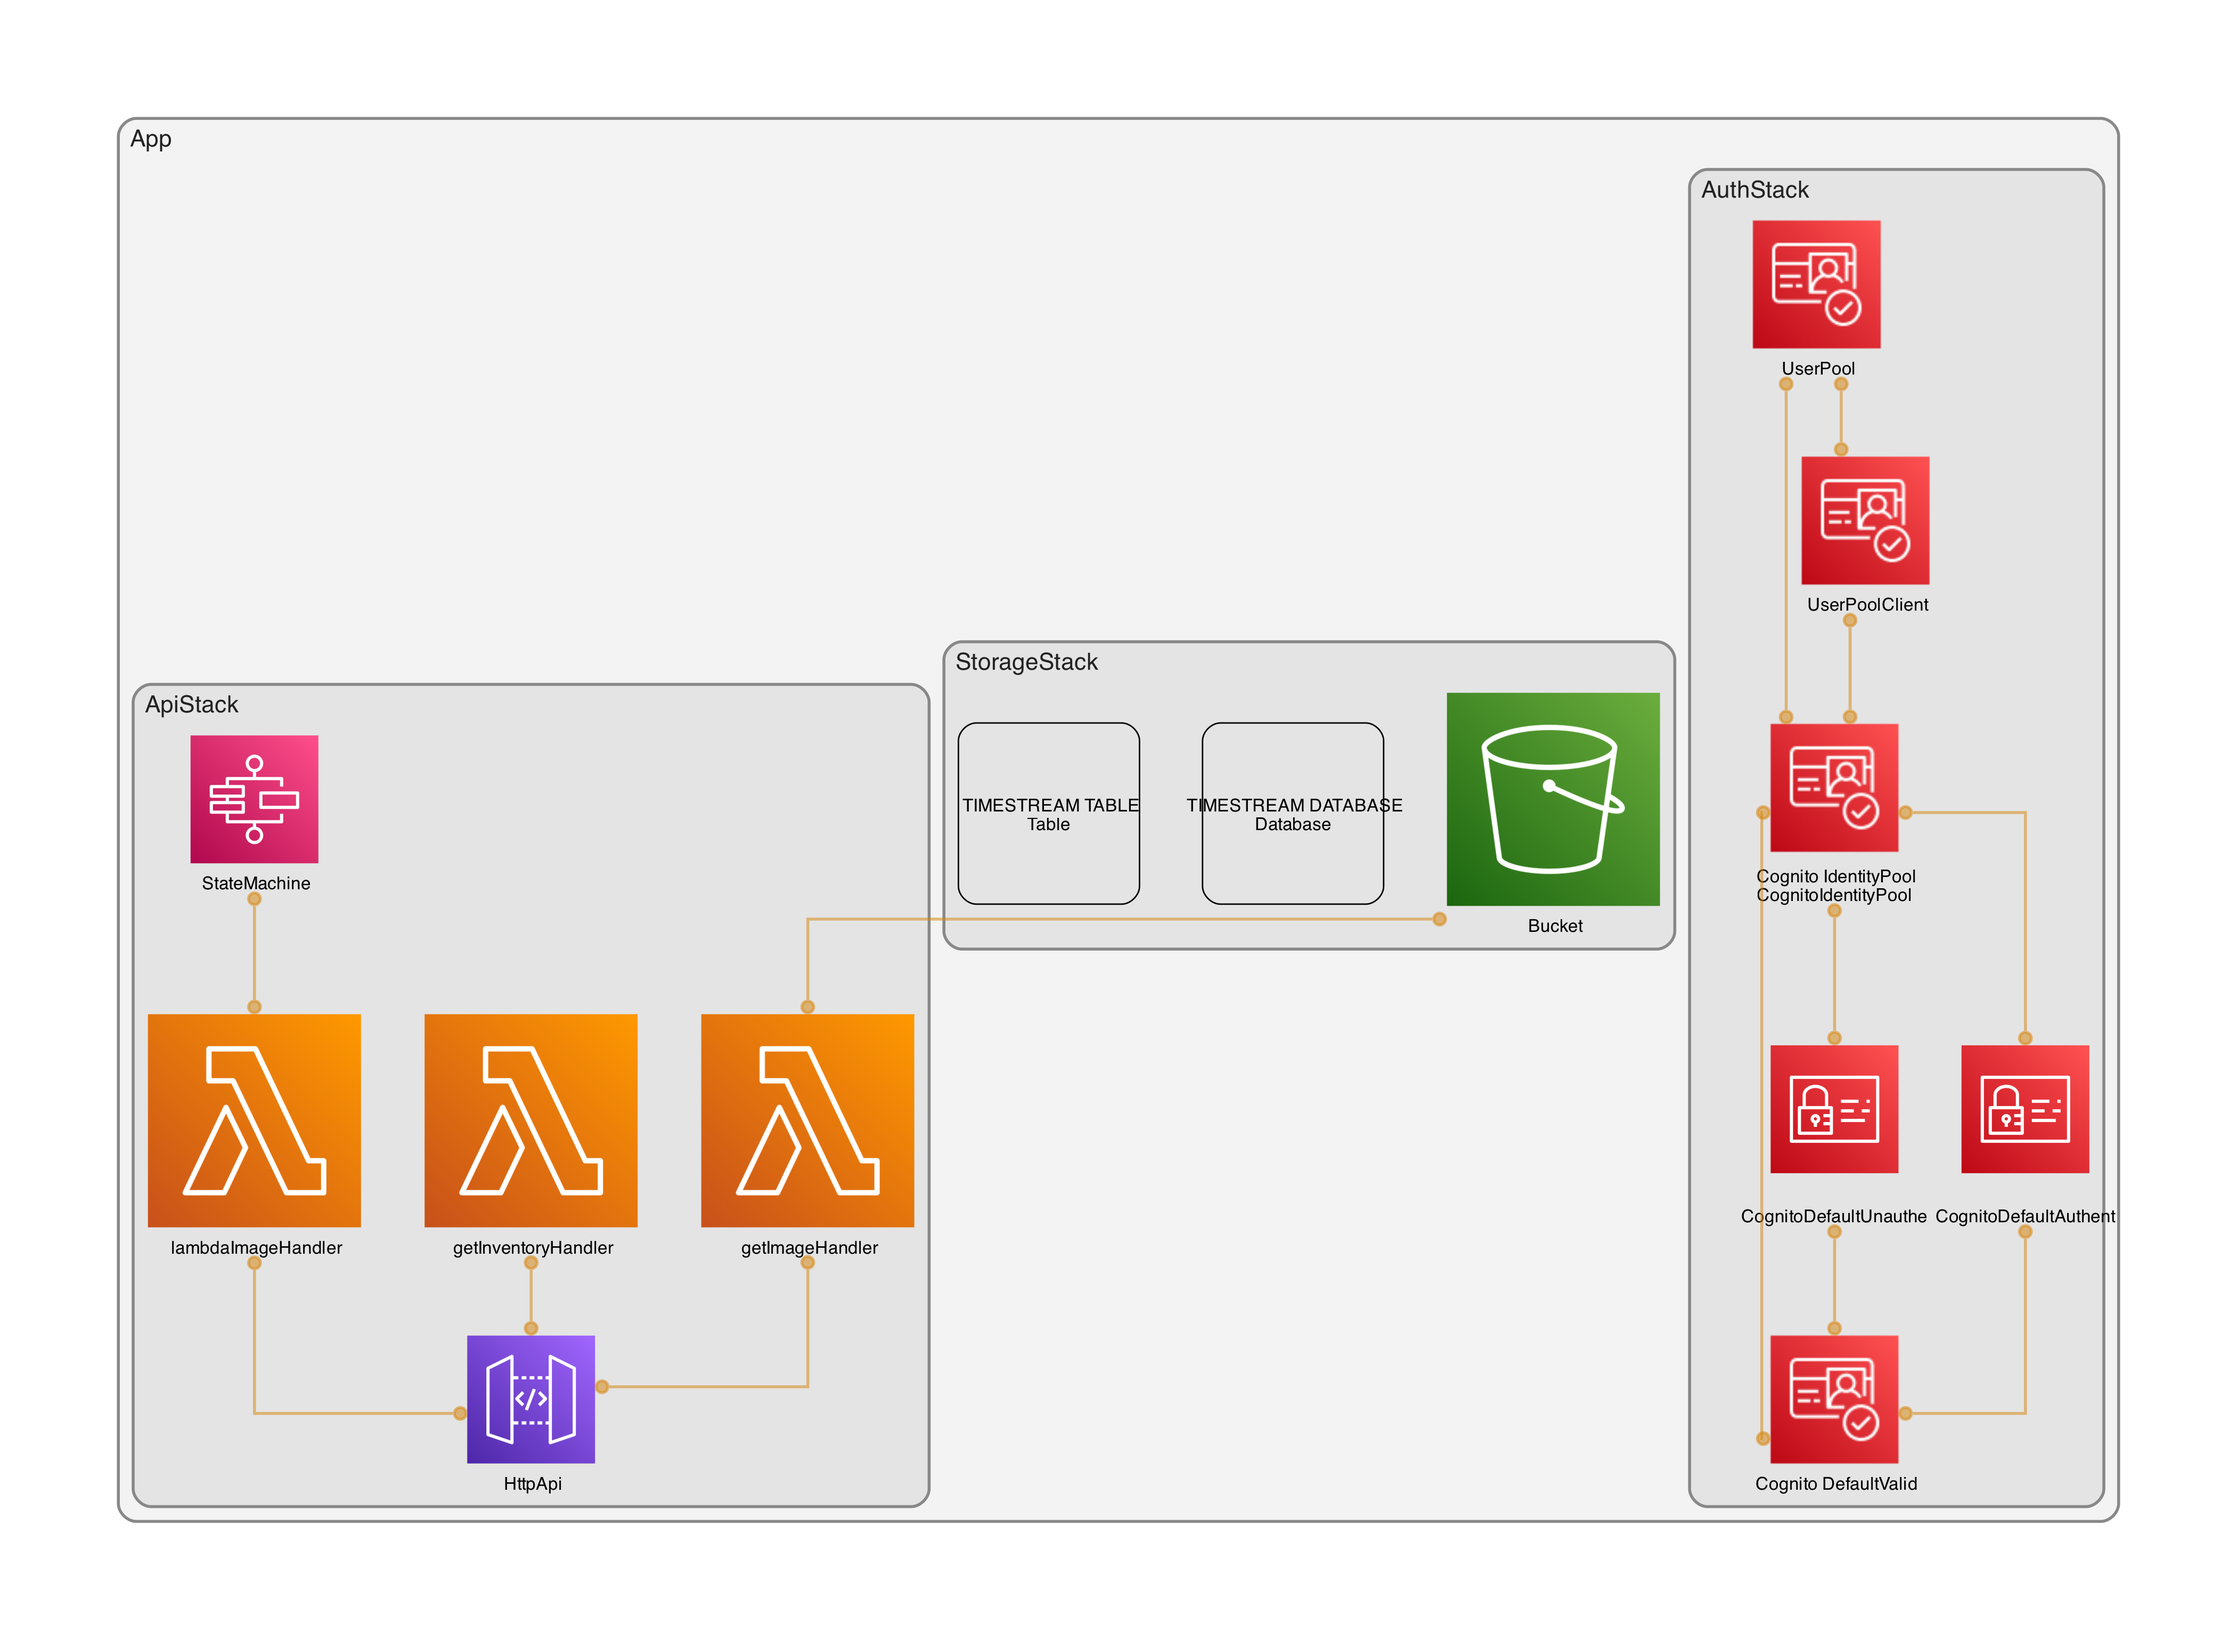
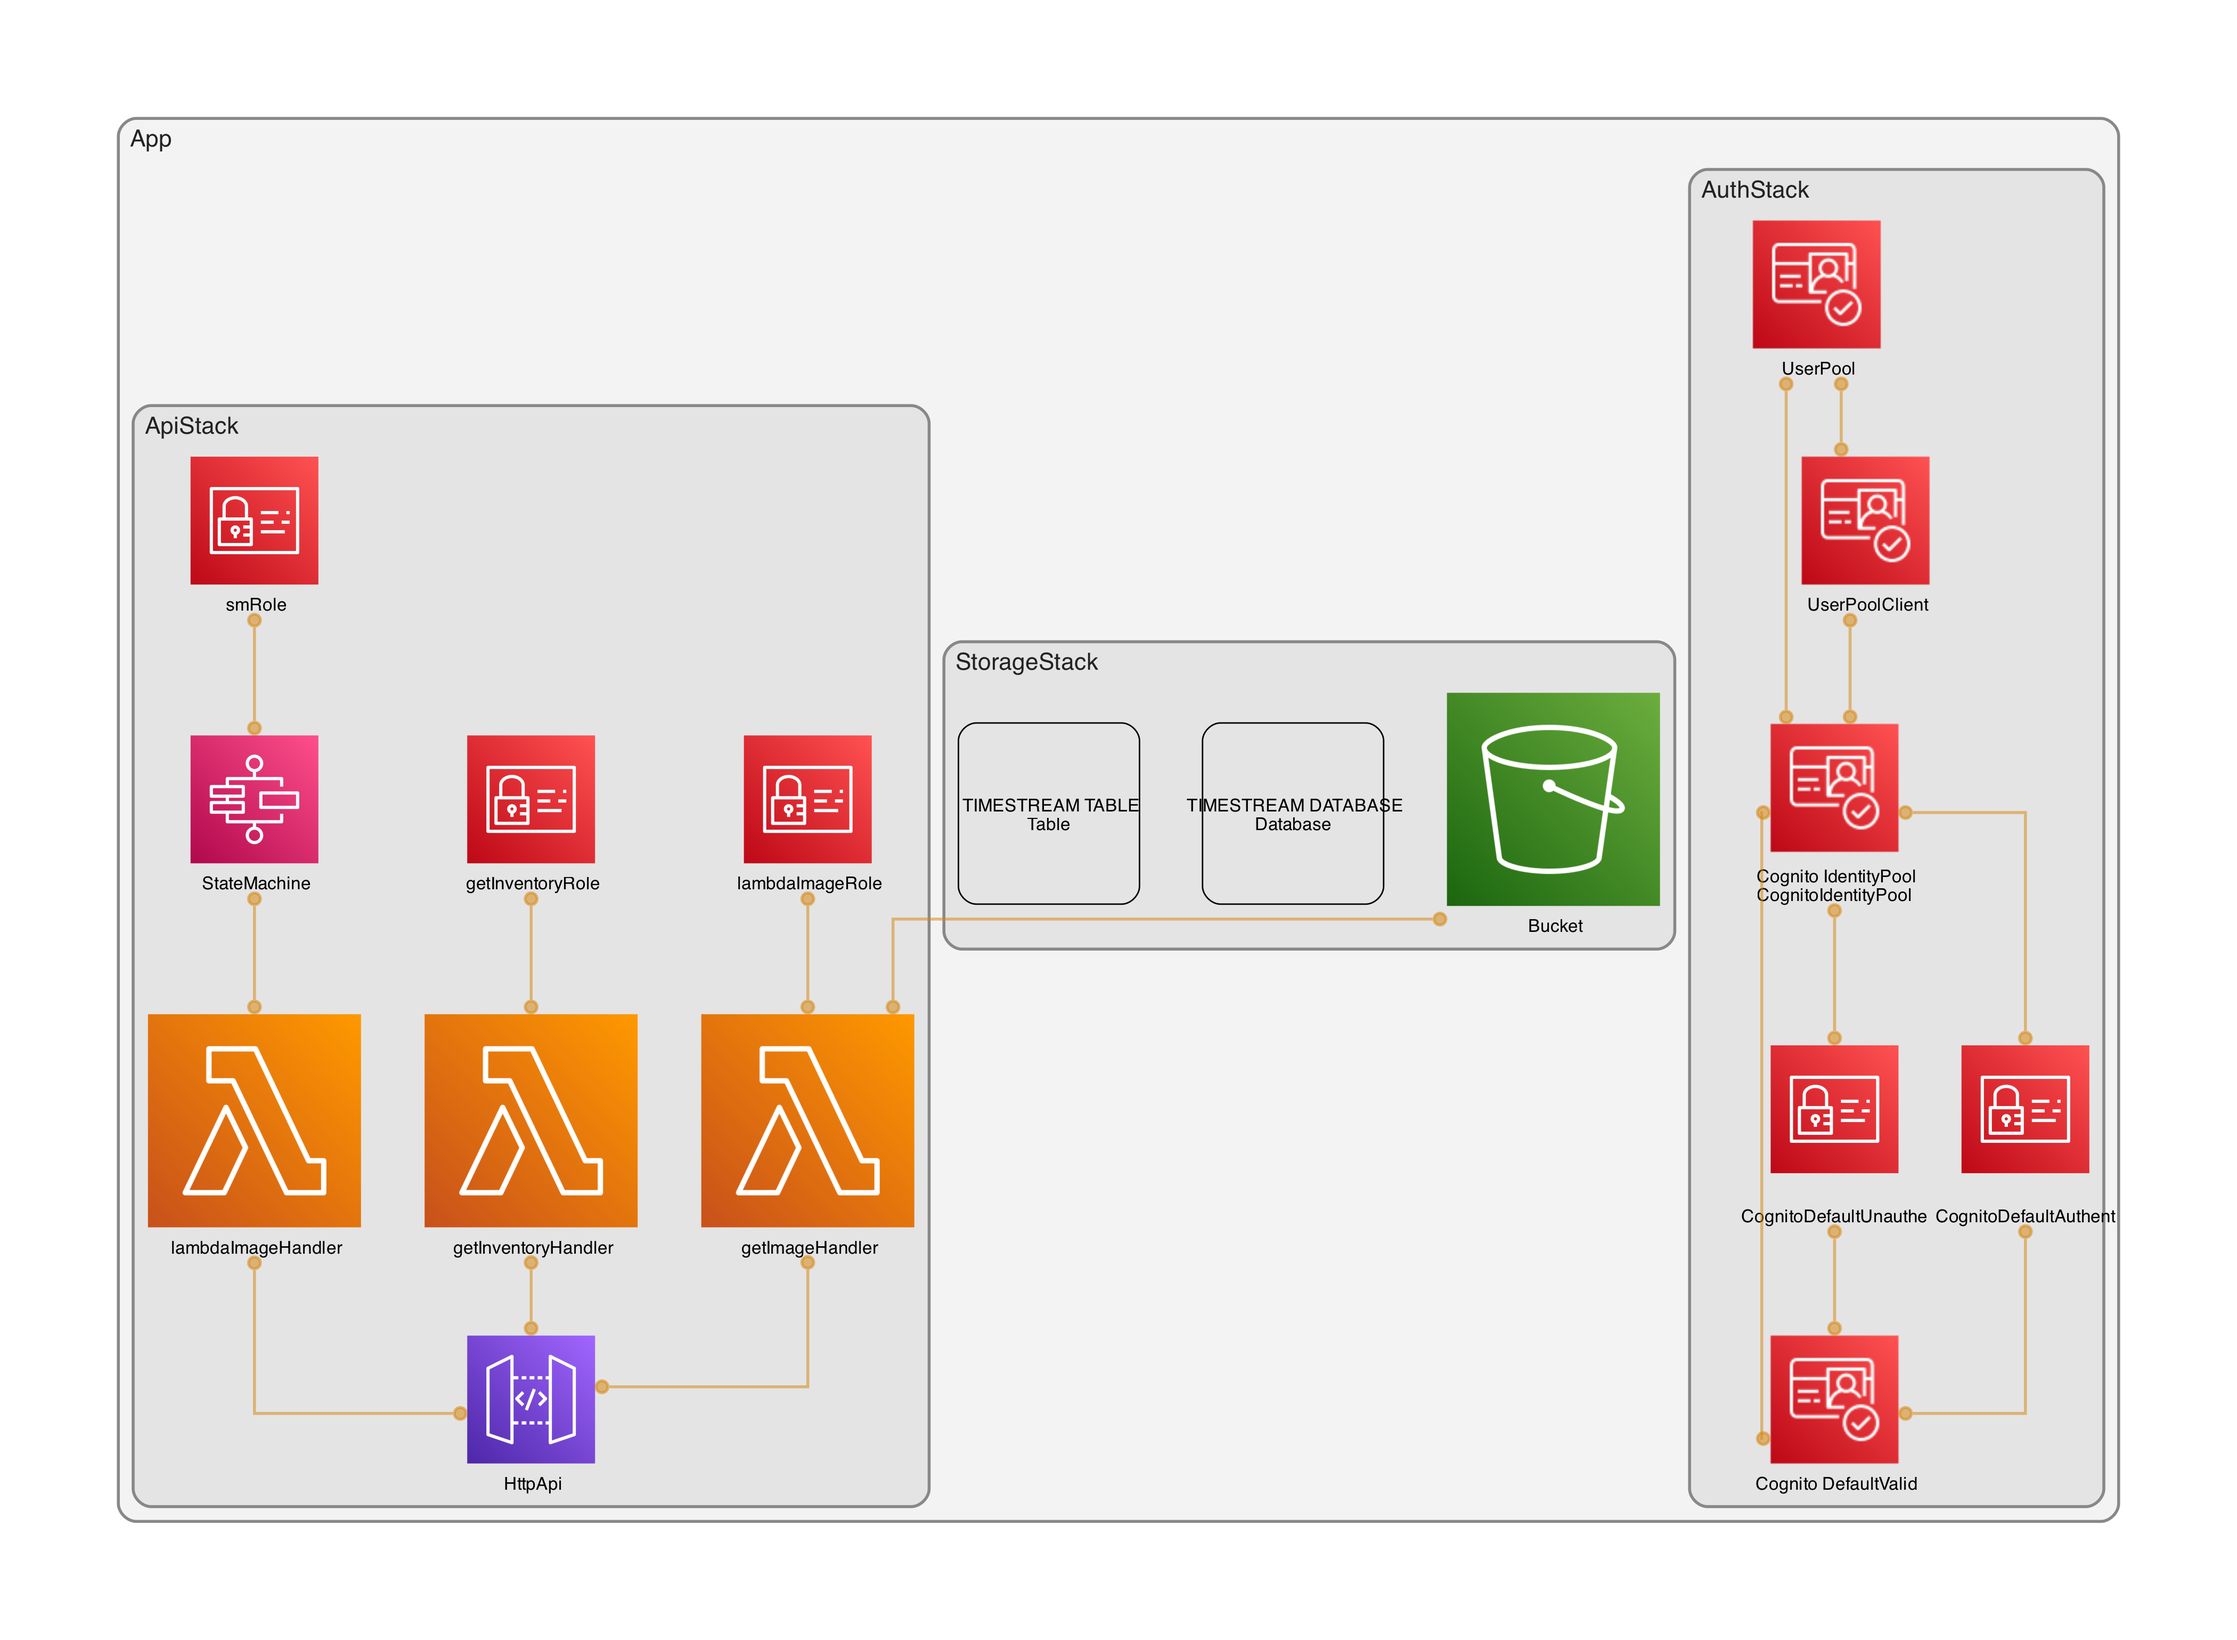
feat: added permissions

diff --git a/cdk/lib/api-stack.ts b/cdk/lib/api-stack.ts
@@ -3,18 +3,45 @@ import * as apigw from "aws-cdk-lib/aws-apigatewayv2";
 import * as lambda from "aws-cdk-lib/aws-lambda";
 import * as sfn from "aws-cdk-lib/aws-stepfunctions";
 import * as sfn_tasks from "aws-cdk-lib/aws-stepfunctions-tasks";
+import { HttpUserPoolAuthorizer } from "aws-cdk-lib/aws-apigatewayv2-authorizers";
 import { Construct } from "constructs";
 
 export class ApiStack extends cdk.Stack {
 	constructor(scope: Construct, id: string, props?: any) {
 		super(scope, id, props);
 
-		const { bucket, projectName, region, database, table } = props;
+		const {
+			bucket,
+			projectName,
+			environment,
+			accountId,
+			region,
+			database,
+			table,
+			userPool,
+		} = props;
 
 		// API Gateway
-		// TODO: AUthorization with Cognito
 		const httpApi = new apigw.HttpApi(this, "HttpApi", {
-			createDefaultStage: true, // Creates API URL
+			createDefaultStage: true,
+			apiName: `${environment}-${projectName}-api`,
+			corsPreflight: {
+				allowHeaders: [
+					"Content-Type",
+					"X-Amz-Date",
+					"Authorization",
+					"X-Api-Key",
+					"Access-Control-Allow-Credentials",
+					"Access-Control-Allow-Headers",
+				],
+				allowMethods: [
+					apigw.CorsHttpMethod.GET,
+					apigw.CorsHttpMethod.HEAD,
+					apigw.CorsHttpMethod.OPTIONS,
+					apigw.CorsHttpMethod.POST,
+				],
+				allowOrigins: ["*"],
+			},
 		});
 
 		// Puts image in the s3 bucket
@@ -23,8 +50,9 @@ export class ApiStack extends cdk.Stack {
 				Type: "Task",
 				Parameters: {
 					Body: {},
-					Bucket: "ExampleBucket",
-					Key: "MyData",
+					Bucket: `${environment}-${projectName}-${accountId}-${region}-bucket`,
+					// TODO: have input parameters for setting the key
+					Key: "Example",
 				},
 				Resource: "arn:aws:states:::aws-sdk:s3:putObject",
 			},
@@ -34,7 +62,15 @@ export class ApiStack extends cdk.Stack {
 			stateJson: {
 				Type: "Task",
 				Parameters: {
-					Image: {},
+					//
+					Image: {
+						S3Object: {
+							Bucket: "string",
+							Name: "string",
+							Version: "string",
+						},
+					},
+					// TODO: Get projectArn from created
 					ProjectVersionArn: "MyData",
 				},
 				Resource: "arn:aws:states:::aws-sdk:rekognition:detectCustomLabels",
@@ -45,9 +81,9 @@ export class ApiStack extends cdk.Stack {
 			stateJson: {
 				Type: "Task",
 				Parameters: {
-					DatabaseName: "MyData",
+					DatabaseName: `${environment}-${projectName}-db`,
 					Records: [{}],
-					TableName: "MyData",
+					TableName: `${environment}-${projectName}-table`,
 				},
 				Resource: "arn:aws:states:::aws-sdk:timestreamwrite:writeRecords",
 			},
@@ -57,9 +93,26 @@ export class ApiStack extends cdk.Stack {
 			.next(detectCustomLabels)
 			.next(writeRecords);
 
+		const smRole = new cdk.aws_iam.Role(this, "smRole", {
+			assumedBy: new cdk.aws_iam.ServicePrincipal("states.amazonaws.com"),
+			managedPolicies: [
+				cdk.aws_iam.ManagedPolicy.fromAwsManagedPolicyName(
+					"AmazonS3FullAccess"
+				),
+				cdk.aws_iam.ManagedPolicy.fromAwsManagedPolicyName(
+					"AmazonTimestreamFullAccess"
+				),
+				cdk.aws_iam.ManagedPolicy.fromAwsManagedPolicyName(
+					"AmazonRekognitionFullAccess"
+				),
+			],
+		});
+
+		// TODO: Walk through all of state machine
 		const sm = new sfn.StateMachine(this, "StateMachine", {
 			definitionBody: sfn.DefinitionBody.fromChainable(chain),
 			timeout: cdk.Duration.seconds(30),
+			role: smRole,
 		});
 
 		// Initializes Step Function with base64 image and runs through the process
@@ -87,6 +140,15 @@ export class ApiStack extends cdk.Stack {
 		sm.grantStartExecution(lambdaImageHandler);
 
 		// Get list of all information from given timeframe
+		const getInventoryRole = new cdk.aws_iam.Role(this, "getInventoryRole", {
+			assumedBy: new cdk.aws_iam.ServicePrincipal("states.amazonaws.com"),
+			managedPolicies: [
+				cdk.aws_iam.ManagedPolicy.fromAwsManagedPolicyName(
+					"AmazonTimestreamFullAccess"
+				),
+			],
+		});
+
 		const getInventoryHandler = new lambda.Function(
 			this,
 			"getInventoryHandler",
@@ -98,6 +160,7 @@ export class ApiStack extends cdk.Stack {
 					TIMESTREAM_TABLE: table.TableName,
 					TIMESTREAM_DATABASE: database.DatabaseName,
 				},
+				role: getInventoryRole,
 			}
 		);
 
@@ -114,6 +177,15 @@ export class ApiStack extends cdk.Stack {
 		});
 
 		// Get image of selected timeframe
+		const lambdaImageRole = new cdk.aws_iam.Role(this, "lambdaImageRole", {
+			assumedBy: new cdk.aws_iam.ServicePrincipal("states.amazonaws.com"),
+			managedPolicies: [
+				cdk.aws_iam.ManagedPolicy.fromAwsManagedPolicyName(
+					"AmazonS3FullAccess"
+				),
+			],
+		});
+
 		const getImageHandler = new lambda.Function(this, "getImageHandler", {
 			code: lambda.Code.fromAsset("../backend/image_uploader"),
 			handler: "image_uploader.handler",
@@ -121,6 +193,7 @@ export class ApiStack extends cdk.Stack {
 			environment: {
 				S3_BUCKET: bucket.bucketName,
 			},
+			role: lambdaImageRole,
 		});
 
 		const getImageProxy =

diff --git a/cdk/lib/storage-stack.ts b/cdk/lib/storage-stack.ts
@@ -9,12 +9,19 @@ export class StorageStack extends cdk.Stack {
 	constructor(scope: Construct, id: string, props?: any) {
 		super(scope, id, props);
 
-		this.bucket = new cdk.aws_s3.Bucket(this, "Bucket", {});
+		const { environment, projectName, accountId, region } = props;
 
-		this.database = new cdk.aws_timestream.CfnDatabase(this, "Database", {});
+		this.bucket = new cdk.aws_s3.Bucket(this, "Bucket", {
+			bucketName: `${environment}-${projectName}-${accountId}-${region}-bucket`,
+		});
+
+		this.database = new cdk.aws_timestream.CfnDatabase(this, "Database", {
+			databaseName: `${environment}-${projectName}-db`,
+		});
 
 		this.table = new cdk.aws_timestream.CfnTable(this, "Table", {
-			databaseName: this.database.databaseName ?? "",
+			databaseName: `${environment}-${projectName}-db`,
+			tableName: `${environment}-${projectName}-table`,
 		});
 
 		new cdk.CfnOutput(this, "ImageBucket", {

diff --git a/cdk/bin/cdk.ts b/cdk/bin/cdk.ts
@@ -7,12 +7,14 @@ import { StorageStack } from "../lib/storage-stack";
 import { WebStack } from "../lib/web-stack";
 
 const envVariables = {
+	environment: process.env["ENV"],
 	projectName: process.env["PROJECT_NAME"],
 	region: process.env["AWS_REGION"],
+	accountId: process.env["AWS_ACCOUNT_ID"],
 };
 
 const app = new cdk.App();
-new AuthStack(app, "AuthStack", { ...envVariables });
+const authStack = new AuthStack(app, "AuthStack", { ...envVariables });
 
 const storageStack = new StorageStack(app, "StorageStack", { ...envVariables });
 
@@ -21,6 +23,7 @@ new ApiStack(app, "ApiStack", {
 	bucket: storageStack.bucket,
 	database: storageStack.database,
 	table: storageStack.table,
+	userPool: authStack.userPool,
 });
 
 // TODO: WebStack
